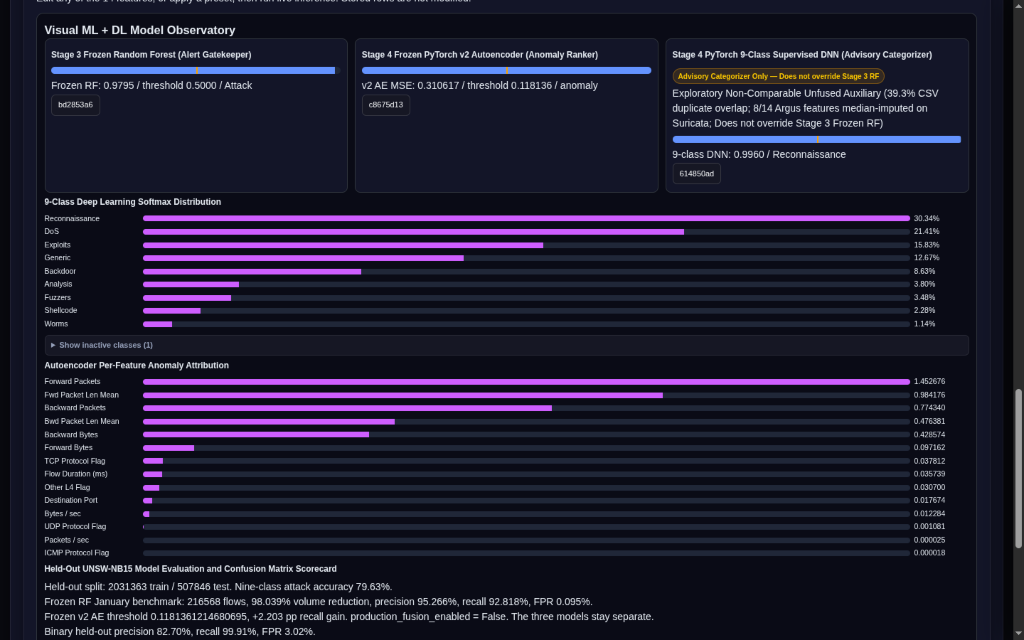
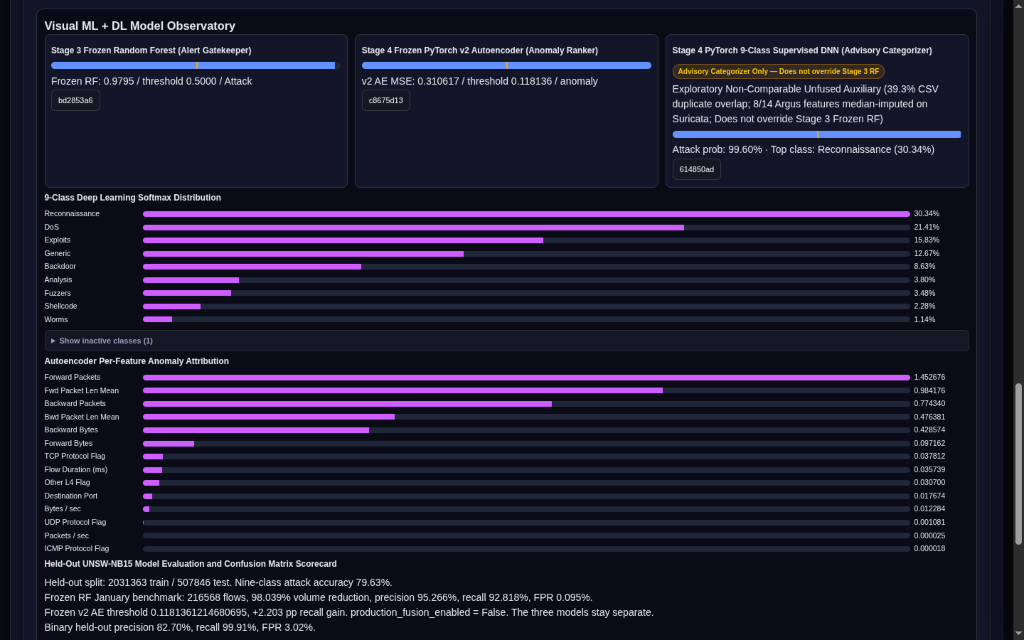
fix(ui,docs): surgical v1.1.0 storefront polish, dynamic SOAR/DNN labels, and refreshed 1440x900 screenshots

diff --git a/frontend/js/soc_dashboard.js b/frontend/js/soc_dashboard.js
@@ -1883,6 +1883,16 @@
         else node.removeAttribute('title');
       });
     });
+    const containBtn = document.getElementById('btnContainRange');
+    if (containBtn) {
+      const srcIp = inc && inc.provenance && inc.provenance.srcIp
+        ? String(inc.provenance.srcIp)
+        : (inc && (inc.srcIp || inc.src_ip || inc.src_entity_id)
+          ? String(inc.srcIp || inc.src_ip || inc.src_entity_id)
+          : '');
+      const ipLabel = !isMissingEndpoint(srcIp) ? srcIp : 'selected flow';
+      containBtn.textContent = '3. Isolate Attacker (' + ipLabel + ') in Victim Firewall';
+    }
     applyTier3SoarAffordance();
   }
 
@@ -1969,6 +1979,12 @@
       setInspectorText('inspectorChain', 'Playbook hash chain: unavailable');
       setInspectorText('inspectorCallback', 'Callback receipt: not recorded');
       setInspectorText('inspectorExecutionPath', 'not dispatched');
+      const rangeBadge = document.getElementById('rangeConnectivityBadge');
+      if (rangeBadge) {
+        rangeBadge.textContent = 'Waiting for a selected flow';
+        rangeBadge.setAttribute('data-connectivity', 'waiting');
+        rangeBadge.setAttribute('data-evidence-state', 'unavailable');
+      }
       showOperatorStamp({ identity_verified: false, identity_label: 'unverified_local_label' });
       renderPlaybookPreview(null);
       renderGlassBox(null);
@@ -2138,6 +2154,15 @@
       return 'MSE ' + (Number.isFinite(mse) ? mse.toFixed(6) : String(value.mse));
     }
     if (component.component_id === 'pytorch_9class_head' && value && typeof value === 'object') {
+      const entries = Object.keys(value)
+        .map(function (key) { return [key, Number(value[key])]; })
+        .filter(function (pair) { return Number.isFinite(pair[1]); })
+        .sort(function (a, b) { return b[1] - a[1]; });
+      if (entries.length) {
+        return entries.slice(0, 3).map(function (pair) {
+          return pair[0] + ' ' + (pair[1] * 100).toFixed(2) + '%';
+        }).join(' · ');
+      }
       return Object.keys(value).map(function (key) {
         const score = Number(value[key]);
         return key + ' ' + (Number.isFinite(score) ? score.toFixed(4) : String(value[key]));
@@ -2150,6 +2175,11 @@
         const technique = hit && hit.technique_id ? String(hit.technique_id) : 'technique';
         return technique + (Number.isFinite(cosine) ? ' cosine ' + cosine.toFixed(4) : '');
       }).join('; ');
+    }
+    if (component.component_id === 'grounded_narrative_copilot' && typeof value === 'string') {
+      const firstLine = value.split('\n').map(function (l) { return l.trim(); }).filter(function (l) { return l && l.charAt(0) !== '['; })[0] || value.trim();
+      const compact = firstLine.replace(/\*\*([^*]+)\*\*/g, '$1').replace(/`([^`]+)`/g, '$1');
+      return compact.length > 88 ? compact.slice(0, 85) + '...' : compact;
     }
     if (typeof value === 'string') return value;
     try {
@@ -3496,6 +3526,8 @@
       dnnAttackProbability: finiteOrNull(flow.dnn_attack_probability),
       dnnBinaryDecision: flow.dnn_binary_decision || '',
       unswAttackCategory: flow.unsw_attack_category || '',
+      topAttackClass: flow.top_attack_class || flow.unsw_attack_category || '',
+      topAttackProbability: finiteOrNull(flow.top_attack_probability),
       dnnFeatures: flow.dnn_features && typeof flow.dnn_features === 'object' ? flow.dnn_features : null,
       advisory: {
         summaryHeadline: flow.source_label === 'suricata_bridge' && flow.sensor_observation
@@ -4561,8 +4593,12 @@
       node.textContent = 'PyTorch DNN (9-Class): waiting';
       return;
     }
-    const category = inc.unswAttackCategory ? String(inc.unswAttackCategory) : 'unavailable';
-    node.textContent = 'PyTorch DNN (9-Class): ' + category + ' · ' + (probability * 100).toFixed(1) + '%';
+    const category = inc.topAttackClass || inc.unswAttackCategory
+      ? String(inc.topAttackClass || inc.unswAttackCategory)
+      : 'unavailable';
+    const topProb = Number(inc.topAttackProbability);
+    const topSuffix = Number.isFinite(topProb) ? ' (' + (topProb * 100).toFixed(1) + '%)' : '';
+    node.textContent = 'PyTorch DNN (9-Class): Attack ' + (probability * 100).toFixed(1) + '% · Top: ' + category + topSuffix;
   }
 
   function clearStaleContainmentBanner() {
@@ -4717,7 +4753,7 @@
     return override;
   }
 
-  function dnnClassLabel(block) {
+  function dnnClassLabel(block, distribution) {
     if (!block) return 'unavailable';
     const attackProb = Number(block.dnn_attack_probability);
     const predicted = String(block.predicted_class || block.dnn_class || '');
@@ -4727,17 +4763,28 @@
     const normalProb = Number(block.predicted_class_probability);
     if (benign) {
       const shown = Number.isFinite(normalProb)
-        ? normalProb.toFixed(4)
-        : (Number.isFinite(attackProb) ? (1 - attackProb).toFixed(4) : 'unavailable');
+        ? (normalProb * 100).toFixed(2) + '%'
+        : (Number.isFinite(attackProb) ? ((1 - attackProb) * 100).toFixed(2) + '%' : 'unavailable');
       const top = String(block.top_attack_class || '');
       const topProb = Number(block.top_attack_probability);
       const extra = top
-        ? (' top_attack ' + top + ' ' + (Number.isFinite(topProb) ? topProb.toFixed(4) : ''))
+        ? (' · Top attack: ' + top + (Number.isFinite(topProb) ? ' (' + (topProb * 100).toFixed(2) + '%)' : ''))
         : '';
       return 'Normal (' + shown + ')' + extra;
     }
-    const shown = Number.isFinite(attackProb) ? attackProb.toFixed(4) : 'unavailable';
-    return shown + ' / ' + (predicted || String(block.unsw_attack_category || 'unavailable'));
+    const attackPct = Number.isFinite(attackProb) ? (attackProb * 100).toFixed(2) + '%' : 'unavailable';
+    const topClass = predicted || String(block.top_attack_class || block.unsw_attack_category || 'unavailable');
+    let topProb = Number(block.top_attack_probability);
+    const dist = (distribution && typeof distribution === 'object')
+      ? distribution
+      : ((block.dnn_class_distribution && typeof block.dnn_class_distribution === 'object') ? block.dnn_class_distribution : null);
+    if (!Number.isFinite(topProb) && dist && topClass && Object.prototype.hasOwnProperty.call(dist, topClass)) {
+      const rows = jointSoftmaxRows(dist, attackProb);
+      const match = rows.find(row => row.label === topClass);
+      if (match && Number.isFinite(Number(match.value))) topProb = Number(match.value);
+    }
+    const topSuffix = Number.isFinite(topProb) ? ' (' + (topProb * 100).toFixed(2) + '%)' : '';
+    return 'Attack prob: ' + attackPct + ' · Top class: ' + topClass + topSuffix;
   }
 
   function proofScoreLine(block) {
@@ -5856,6 +5903,14 @@
   function renderVisualObservatory(data) {
     if (!data || typeof data !== 'object') return;
     const block = data.perturbed || data.original || data;
+    const currentInc = selectedIncident();
+    if (currentInc && block && typeof block === 'object') {
+      if (block.top_attack_class) currentInc.topAttackClass = String(block.top_attack_class);
+      if (Number.isFinite(Number(block.top_attack_probability))) {
+        currentInc.topAttackProbability = Number(block.top_attack_probability);
+      }
+      setDnnBadge(currentInc);
+    }
     const rf = Number(block.rf_attack_probability);
     const ae = Number(block.ae_loss);
     const aeThreshold = Number(block.ae_threshold || EVAL_PACK_REV2.aeThreshold);
@@ -5880,7 +5935,8 @@
         + ' / threshold ' + (Number.isFinite(aeThreshold) ? aeThreshold.toFixed(6) : 'unavailable')
         + (block.ae_anomaly_flag ? ' / anomaly' : ' / within threshold')
     );
-    const dnnGaugeText = '9-class DNN: ' + dnnClassLabel(block);
+    const distribution = data.dnn_class_distribution || block.dnn_class_distribution || {};
+    const dnnGaugeText = dnnClassLabel(block, distribution);
     setGauge(
       'gaugeDnnFill',
       'gaugeDnnThreshold',
@@ -5889,7 +5945,6 @@
       0.5,
       dnnGaugeText
     );
-    const distribution = data.dnn_class_distribution || block.dnn_class_distribution || {};
     const attackProbability = Number(block.dnn_attack_probability != null
       ? block.dnn_attack_probability
       : data.dnn_attack_probability);

diff --git a/frontend/index.html b/frontend/index.html
@@ -537,8 +537,8 @@
                         <div><b>Callback:</b> <span id="inspectorCallback" data-evidence-state="unavailable">Callback receipt: not recorded</span></div>
                       </li>
                       <li>
-                        <button id="btnContainRange" type="button" disabled>3. Isolate Attacker (172.29.0.10) in Victim Firewall</button>
-                        <span class="badge" id="rangeConnectivityBadge" data-evidence-state="unavailable">172.29.0.10 -&gt; 172.29.0.20:80: waiting for a probe</span>
+                        <button id="btnContainRange" type="button" disabled>3. Isolate Attacker (selected flow) in Victim Firewall</button>
+                        <span class="badge" id="rangeConnectivityBadge" data-evidence-state="unavailable">Waiting for a selected flow</span>
                       </li>
                     </ol>
                     <section id="soarPlaybookInspectorSide" class="soar-playbook-inspector" aria-label="Dynamic Python SOAR Playbook and Live Execution Trace">
@@ -764,7 +764,7 @@
         <article class="card" id="hunterDraftRuleCard" style="background: #111827;" aria-label="Draft Detection Rule">
           <h3>Draft Detection Rule (Suricata / Sigma / SPL / YARA-L)</h3>
           <p>Grounds four review-only detection rules in the active flow protocol, destination port, and technique. Human approval is required before deployment.</p>
-          <div id="hunterRuleBadges" class="hunt-formats"></div>
+          <div id="hunterRuleBadges" class="hunt-formats" hidden></div>
           <label for="hunterDraftRuleQuery">Custom hunt intent</label>
           <div class="hunter-intent-row">
             <input id="hunterDraftRuleQuery" type="text" value="Detect lateral movement toward the active destination port" maxlength="240">

diff --git a/backend/src/threatfusion/api/live_soc_console.py b/backend/src/threatfusion/api/live_soc_console.py
@@ -2843,6 +2843,15 @@ def _grounded_gemini_narrative(
             hits,
         )
         fallback["ledger_verification"] = ledger
+        if local_narrative:
+            _remember_live_gemini(
+                flow_id,
+                question,
+                "local_air_gapped",
+                fallback,
+                db_path,
+                identity,
+            )
         return fallback
     model_name = str(status.get("model_name") or resolve_gemini_model())
     cached = _cached_live_gemini(flow_id, question, model_name, db_path, identity)
@@ -3139,12 +3148,16 @@ def _flow_rows(db_path: Path, *, limit: int, flow_id: int | None = None) -> list
                     "ae_anomaly_flag",
                     "ae_threshold",
                     "ae_top_features",
+                    "ae_feature_errors",
                     "dnn_attack_probability",
                     "dnn_binary_decision",
                     "unsw_attack_category",
                     "dnn_class",
                     "predicted_class",
                     "predicted_class_probability",
+                    "top_attack_class",
+                    "top_attack_probability",
+                    "dnn_class_distribution",
                     "dnn_classification",
                     "dnn_role",
                 ):

diff --git a/backend/tests/unit/test_ai_era_product_upgrades.py b/backend/tests/unit/test_ai_era_product_upgrades.py
@@ -786,10 +786,10 @@ def test_deploy_full_stack_provisions_only_when_live(tmp_path: Path) -> None:
     assert "provision-range is not called" in cloud
     readme = (ROOT / "README.md").read_text(encoding="utf-8")
     assert (
-        "AZURE_VM_SIZE=Standard_B2pls_v2 ./scripts/deploy_cloud_range.sh --auto-ip --deploy-full-stack"
+        "AZURE_VM_SIZE=Standard_B2pls_v2 ./scripts/deploy_cloud_range.sh --provider azure --auto-ip --deploy-full-stack"
         in readme
     )
-    assert "v1.2 operator surface" in readme
+    assert "v1.1.0 operator surface" in readme
 
 
 def test_quad_format_blocks_and_envelope_floor() -> None:

diff --git a/backend/tests/unit/test_live_soc_console.py b/backend/tests/unit/test_live_soc_console.py
@@ -1030,7 +1030,7 @@ def test_live_product_launcher_starts_one_process() -> None:
         "+2.203 pp recall gain (92.818% -> 95.021%; +2.373% relative TP increase, 96/4,045)"
         in readme
     )
-    assert "TF-008, TF-009, TF-010, and TF-011 remain open." in readme
+    assert "all 10 governance gates (`TF-002..TF-004`, `TF-006..TF-012`) remain `open`" in readme
 
 
 def _post_json(

diff --git a/docs/project_status.md b/docs/project_status.md
@@ -4,7 +4,7 @@
 
 On 2026-11-23 (Wave C: `WP-P0-07`, `WP-P0-08`, `WP-P0-09`, and `WP-P0-10`), completed scientific integrity hardening, Cool Obsidian commercial UI/UX overhaul, local screenshot recapture, and multi-cloud release documentation across `gemini/product-20260924`:
 - Re-classified 9-class DNN (`614850ad`) in console responses, `frontend/index.html`, and `README.md` as an exploratory non-comparable unfused auxiliary categorizer (`39.3%` CSV duplicate overlap; `8/14` Argus features median-imputed on Suricata; never overrides Stage 3 Frozen RF). Removed duplicate `"Backdoors"` probability injection, `_consensus_score` pseudo-fusion, `_RANGE_DISPLAY_TRANSPORT` port spoofing (labeled `unsw_benchmark_replay_profile`), and unmeasured `99.9889%` / `99.85%` / `864x` / `94% MTTR` claims; corrected RF alert counts (`4,246`, `98.039%` volume reduction) and `canonical_evaluation.py` `binary_accuracy` (`0.99763` RF, `0.98154` AE v2); set `tf010_signed_rubric_attached = False`, removed `CIC-IDS2017`, marked `CSE-CIC-IDS2018` `BLOCKED_SEMANTIC_MISMATCH` (`0.542%` F1), removed synthetic `10.0.0.4/5` and `T1071.001` (`0.924`) fallbacks in `explanation_engine.py`, applied strict `>` on AE v2 thresholding, marked unbacked static dashboard badges `unavailable`, expanded `repo_truth_audit.py` Check 2 across all 7 immutable SHA-256 digests (`bd2853a6`, `2cf4de66`, `c8675d13`, `1d02e5bb`, `30c955e3`, `614850ad`, `0c38310e`), and updated `docs/stride_threat_model_and_production_readiness.md` to `PROTOTYPE_CONTROLS_VERIFIED / PRODUCTION_NO_GO`.
-- Delivered Cool Obsidian commercial UI/UX overhaul (`frontend/css/soc_unicorn.css`, `frontend/css/soc_dashboard.css`, `frontend/index.html`, `frontend/js/soc_dashboard.js`) preserving all required DOM IDs and Gate `G9` (with `min-width: 0; overflow: hidden; text-overflow: ellipsis;` on `.brand-title` to prevent narrow-width tab overlap), recaptured and visually verified all 6 `docs/assets/screenshots/01..06-*.png` views locally at `$0.00`, updated `README.md` with Local/macOS/Linux/Docker/BYOH/AWS/GCP/Azure workflows, and resolved portable Python interpreter resolution in `test_wave_b_auth_egress_soar.py` (`threatfusion-venv/bin/python` fallback to `sys.executable` for CI `.venv`). All ten open governance gates (`TF-002`–`TF-004`, `TF-006`–`TF-012`, including `TF-008`, `TF-009`, `TF-010`, and `TF-011`) remain honestly `open`.
+- Delivered Cool Obsidian commercial UI/UX overhaul (`frontend/css/soc_unicorn.css`, `frontend/css/soc_dashboard.css`, `frontend/index.html`, `frontend/js/soc_dashboard.js`) preserving all required DOM IDs and Gate `G9` (with `min-width: 0; overflow: hidden; text-overflow: ellipsis;` on `.brand-title` to prevent narrow-width tab overlap, dynamic `src_ip` binding on `#btnContainRange`, dual `Attack prob` + `Top class` 9-Class DNN Observatory summary line, hidden duplicate `#hunterRuleBadges` row above `.rule-tab-bar`, and local air-gapped narrative/DNN trace persistence so `Advisory Trace` transitions to `COMPLETE`), recaptured and visually verified all 6 `docs/assets/screenshots/01..06-*.png` views locally at `$0.00`, updated `README.md` with `v1.1.0 operator surface`, symmetric `--provider azure`, prerequisites note, and deduplicated 10-gate callout, and resolved portable Python interpreter resolution in `test_wave_b_auth_egress_soar.py` (`threatfusion-venv/bin/python` fallback to `sys.executable` for CI `.venv`). All ten open governance gates (`TF-002`–`TF-004`, `TF-006`–`TF-012`, including `TF-008`, `TF-009`, `TF-010`, and `TF-011`) remain honestly `open`.
 
 On 2026-11-22 (Wave B: `WP-P0-04`, `WP-P0-05`, `WP-P0-06`, and Stage 5/6 hardening),
 production auth middleware, RFC-safe `HttpOnly` session cookies (`__Host-tf_session; Secure`

diff --git a/README.md b/README.md
@@ -7,7 +7,7 @@
 > - **Sole Alert Authority**: Stage 3 Frozen Random Forest (`bd2853a6`) drives every alert decision (`threshold = 0.5000`).
 > - **Section 8 Fusion Shield**: `production_fusion_enabled = False` is strictly enforced (raising `ValueError` if toggled).
 > - **Gate `G9` Isolation**: Zero LLM, ChromaDB RAG, or advisory imports exist in deterministic pipeline Stages 1–4 or Stage 6 SOAR ledger (`verify_gate_g9()` PASS).
-> - **Open Gates**: `TF-008, TF-009, TF-010, and TF-011 remain open.` Formal enterprise/production release stays blocked while all 10 governance gates (`TF-002`–`TF-004`, `TF-006`–`TF-012`) remain `open` in [`docs/issue_register.md`](docs/issue_register.md).
+> - **Open Gates**: Formal enterprise/production release stays blocked while all 10 governance gates (`TF-002..TF-004`, `TF-006..TF-012`) remain `open` in [`docs/issue_register.md`](docs/issue_register.md).
 
 ---
 
@@ -22,6 +22,8 @@
 | ![AI Threat Hunter Rules](docs/assets/screenshots/05-ai-threat-hunter-rules.png) | ![Mobile Console](docs/assets/screenshots/06-mobile-console.png) |
 
 ---
+
+> **Prerequisites**: `Python 3.11 · ~4 GB RAM · all 7 frozen model/fixture artifacts included in repo`
 
 ## Multi-Cloud & Local Quickstart (`Python 3.11`)
 
@@ -80,10 +82,10 @@ All cloud workflows lock port `8766` away from `0.0.0.0/0` (operator access uses
   ```
 - **Azure (`ARM` / B-Series Range)**:
   ```bash
-  AZURE_VM_SIZE=Standard_B2pls_v2 ./scripts/deploy_cloud_range.sh --auto-ip --deploy-full-stack
+  AZURE_VM_SIZE=Standard_B2pls_v2 ./scripts/deploy_cloud_range.sh --provider azure --auto-ip --deploy-full-stack
   ```
 
-### v1.2 operator surface
+### v1.1.0 operator surface
 
 - Single-row 52px Cool Obsidian header with collapsible **Health & Governance Drawer** (`/readyz`, SOAR hash chain status, transport posture, UTC clock, advisory provider status).
 - High-density **Investigations Queue** (`Flows + Correlated Incidents` summary, collapsed telemetry funnel strip, single-row filter bar, `40px` tabular-nums rows).
